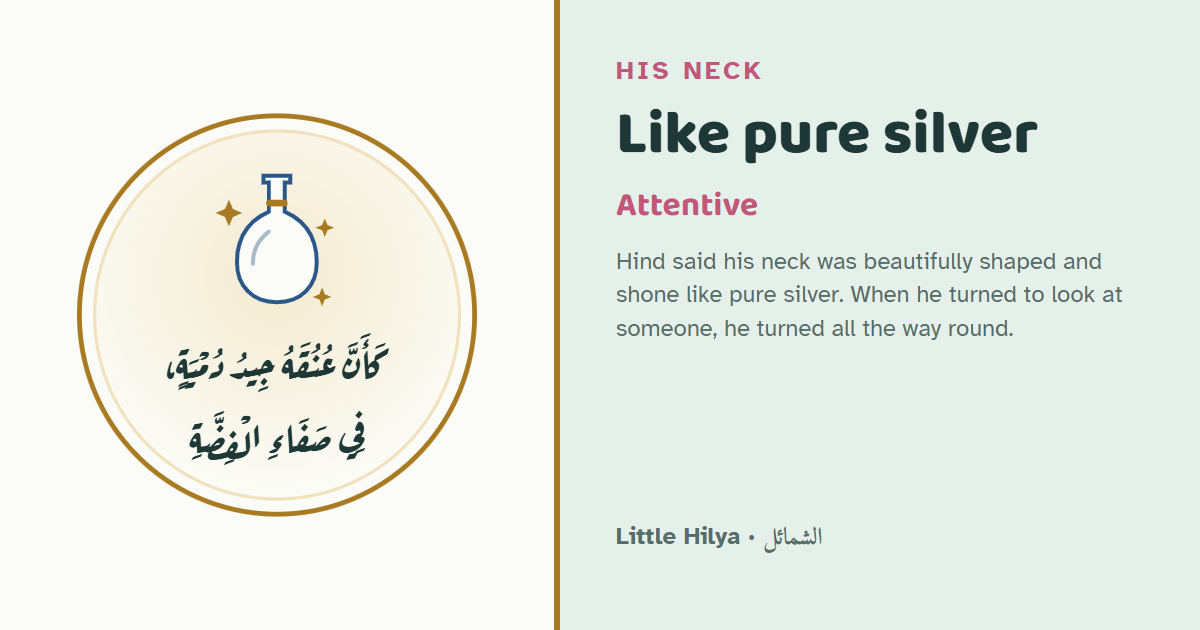
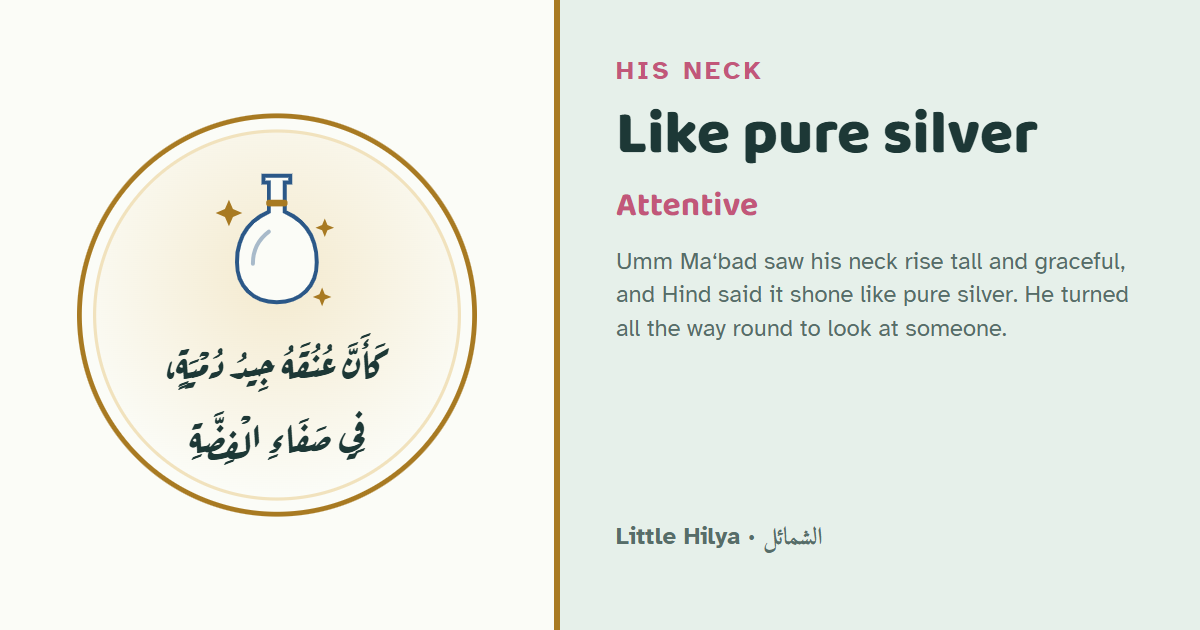
Add Umm Ma'bad, 'Ali and a second Hind chain to the neck station, with its signs

Changed region(s): [[0.4933, 0.3921, 0.9558, 0.4825], [0.4933, 0.5127, 0.8633, 0.5429]]

diff --git a/src/data/stations/06-neck.ts b/src/data/stations/06-neck.ts
@@ -5,24 +5,46 @@ export default defineStation({
   id: "neck",
   name: "His neck",
   icon: "vase",
-  phrase: "كَأَنَّ عُنُقَهُ جِيدُ دُمْيَةٍ، فِي صَفَاءِ الْفِضَّةِ",
+  phrase: "كَأَنَّ عُنُقَهُ جِيدُ دُمْيَةٍ، فِي صَفَاءِ الْفِضَّةِ",
   title: "Like pure silver",
-  line: "Hind said his neck was beautifully shaped and shone like pure silver. When he turned to look at someone, he turned all the way round.",
+  line: "Umm Ma‘bad saw his neck rise tall and graceful, and Hind said it shone like pure silver. He turned all the way round to look at someone.",
   physical: [
     {
       ref: "shamail:8",
-      phrase: "كَأَنَّ عُنُقَهُ جِيدُ دُمْيَةٍ، فِي صَفَاءِ الْفِضَّةِ",
-      gloss: "It was as if his neck were the neck of a statue shaped in pure silver.",
+      phrase: "كَأَنَّ عُنُقَهُ جِيدُ دُمْيَةٍ، فِي صَفَاءِ الْفِضَّةِ",
+      gloss:
+        "It was as if his neck were the neck of a finely carved figure, in the clearness of silver.",
+      note: "Jīd is the neck, and a dumya is a figure made with great care to be as beautiful as it can be (al-Nihāya). Al-Haytamī: the likeness is of shape, and “in the clearness of silver” adds the colour. Al-Qārī: its length was perfectly balanced. It describes form and colour, not a picture to be drawn. How to word دُمْيَة for children is for a scholar to settle.",
+    },
+    {
+      ref: "bayhaqi-dalail:1/285",
+      phrase: "كَأَنَّ عُنُقَهُ جِيدُ دُمْيَةٍ فِي صَفَاءِ الْفِضَّةِ",
+      gloss:
+        "It was as if his neck were the neck of a finely carved figure, in the clearness of silver.",
+      note: "Hind’s description again. Al-Bayhaqī gives it through two chains: Jumayʿ’s, as in the Shamāʾil, and one through ʿAlī’s descendants (Jaʿfar al-Ṣādiq from his fathers) that avoids Jumayʿ and the unnamed man in Mecca. No grade is printed; how far the second chain strengthens the report is for a scholar to judge.",
+    },
+    {
+      ref: "hakim:4274",
+      phrase: "وَفِي عُنُقِهِ سَطَعٌ",
+      gloss: "And there was a tall rise to his neck.",
+      note: "Umm Maʿbad, who saw him on the Hijra without knowing who he was. Al-Bayhaqī glosses سَطَع as length, and Lisān al-ʿArab as a long neck; Ibn Fāris gives the root as a thing being long and rising up into the air, the word also used for dawn light spreading up the sky.",
+    },
+    {
+      ref: "ibnsad:1/410-2",
+      phrase: "كَأَنَّ عُنُقَهُ إِبْرِيقُ فِضَّةٍ",
+      gloss: "It was as if his neck were a silver ewer.",
+      note: "ʿAlī’s description, through an unnamed man of the Anṣār. The same report ends the walk with «إِذَا الْتَفَتَ الْتَفَتَ جَمِيعًا», “when he turned, he turned altogether”.",
     },
     {
       ref: "shamail:12",
-      phrase: "أَبْيَضَ كَأَنَّمَا صِيغَ مِنْ فِضَّةٍ",
+      phrase: "أَبْيَضَ كَأَنَّمَا صِيغَ مِنْ فِضَّةٍ",
       gloss: "He was white, as if he were fashioned from silver.",
     },
     {
       ref: "shamail:7",
       phrase: "وَإِذَا الْتَفَتَ الْتَفَتَ مَعًا",
       gloss: "When he looked around, he looked around altogether.",
+      note: "Ibn al-Athīr (al-Nihāya): he did not steal sideways glances, or did not twist his neck right and left as a hasty person does, but faced fully and turned away fully.",
     },
   ],
   character: [
@@ -30,14 +52,31 @@ export default defineStation({
       trait: "Attentive",
       line: "Abū Hurayra said that when he turned to face someone, he turned to them with his whole self.",
       ref: "adab:255",
-      basis: "reflection",
+      basis: "classical",
+      note: "Al-Qārī: he turned his whole self to whoever came to him to show he cared about them, and turned away only once their need was met; turning by twisting the neck alone is what the proud do.",
       review: draft("al-Adab al-Mufrad has no grade in our source; check al-Albānī’s grading."),
+    },
+    {
+      trait: "Forgiving",
+      line: "A man pulled his cloak so hard that it left a mark on his neck, and asked to be given something. He turned to the man, laughed, and had a gift given to him.",
+      ref: "bukhari:6088",
+      basis: "classical",
+      note: "Al-Haytamī draws from this his great forgiveness, his patience when he himself was hurt, and his kindness to rough-mannered people.",
+      review: draft(),
     },
     {
       trait: "Loving",
       line: "He carried his little grandson al-Ḥasan on his shoulder and said: “O Allah, I love him, so love him.”",
       ref: "muslim:2422a",
       basis: "reflection",
+      review: draft(),
+    },
+    {
+      trait: "Gentle",
+      line: "He came out to pray carrying his little granddaughter Umāma on his neck. When he bowed he put her down, and when he stood up he picked her up again.",
+      ref: "darimi:1399",
+      basis: "reflection",
+      note: "Al-Dārimī’s wording has “on his neck, or his shoulder”; al-Bukhārī and Muslim have the same report.",
       review: draft(),
     },
     {
@@ -48,7 +87,22 @@ export default defineStation({
       review: draft(),
     },
   ],
-  signs: [],
+  signs: [
+    {
+      kind: "khasisa",
+      title: "Weighty words",
+      line: "When Allah’s words came down to him while he was riding, his camel lowered her neck to the ground and could not move, because the revelation was so weighty.",
+      ref: "hakim:3865",
+      note: "ʿĀʾisha then recited 73:5, “We shall send down on you a weighty word.” Jirān, the word for what the camel laid down, is the underside of the neck (al-Nihāya).",
+    },
+    {
+      kind: "khasisa",
+      title: "Protected",
+      line: "Abū Jahl threatened to tread on his neck if he saw him praying at the Ka‘ba. The Prophet said that if he had tried, the angels would have seized him.",
+      ref: "bukhari:4958",
+      grownUp: true,
+    },
+  ],
   mirror:
     "Turn all the way round to face the mirror. Who will you turn to and really listen to today?",
 });

diff --git a/data/notes/stations.notes.md b/data/notes/stations.notes.md
@@ -85,7 +85,7 @@ These are recorded in `corrections.json`. `src/data/texts.ts` applies only the "
 - **chest**: the children's card is the Isrā’ washing (bukhari:349). The childhood opening is a grown-up card in Aḥmad's gentlest wording (ahmad:21261); muslim:162c (number from the add-on, not yet checked on sunnah.com) tells it more vividly ("took out the heart… blood-clot"). How far to tell the opening to children is still to be decided.
 - **seal**: "A sign for Salmān" is labelled khasisa because the Seal itself is unique to him. The date palms are labelled mujiza.
 - **voice**: Minā (abudawud:1957) is labelled mujiza. It could equally be karama.
-- **neck**: "turned all the way round" is my reading of الْتَفَتَ مَعًا/جميعا, following the usual commentary.
+- **neck**: "turned all the way round" follows al-Nihāya and al-Qārī on الْتَفَتَ مَعًا/جَمِيعًا. For a scholar: how to word دُمْيَة for children; whether the ʿAlawī chain in bayhaqi-dalail:1/285 strengthens Hind's جِيدُ دُمْيَة; whose grade the hakim:4274 field is (al-Ḥākim's or al-Dhahabī's) and the chain through Ḥizām ibn Hishām; Ibn Saʿd's unnamed Anṣārī (ibnsad:1/410-2). Umāma (darimi:1399) sits here for its «عَلَى عُنُقِهِ»; Abū Jahl's threat (bukhari:4958) is grown-up only.
 - **feet** and **mouth** use saliva and foot-strike reports. The kid lines say "put a little of his saliva" and "struck it with his foot", matching the dataset English.
 - Station phrases were copied from the dataset. `bun run check` checks that each one occurs in its hadith's Arabic, ignoring voweling and punctuation.
 
